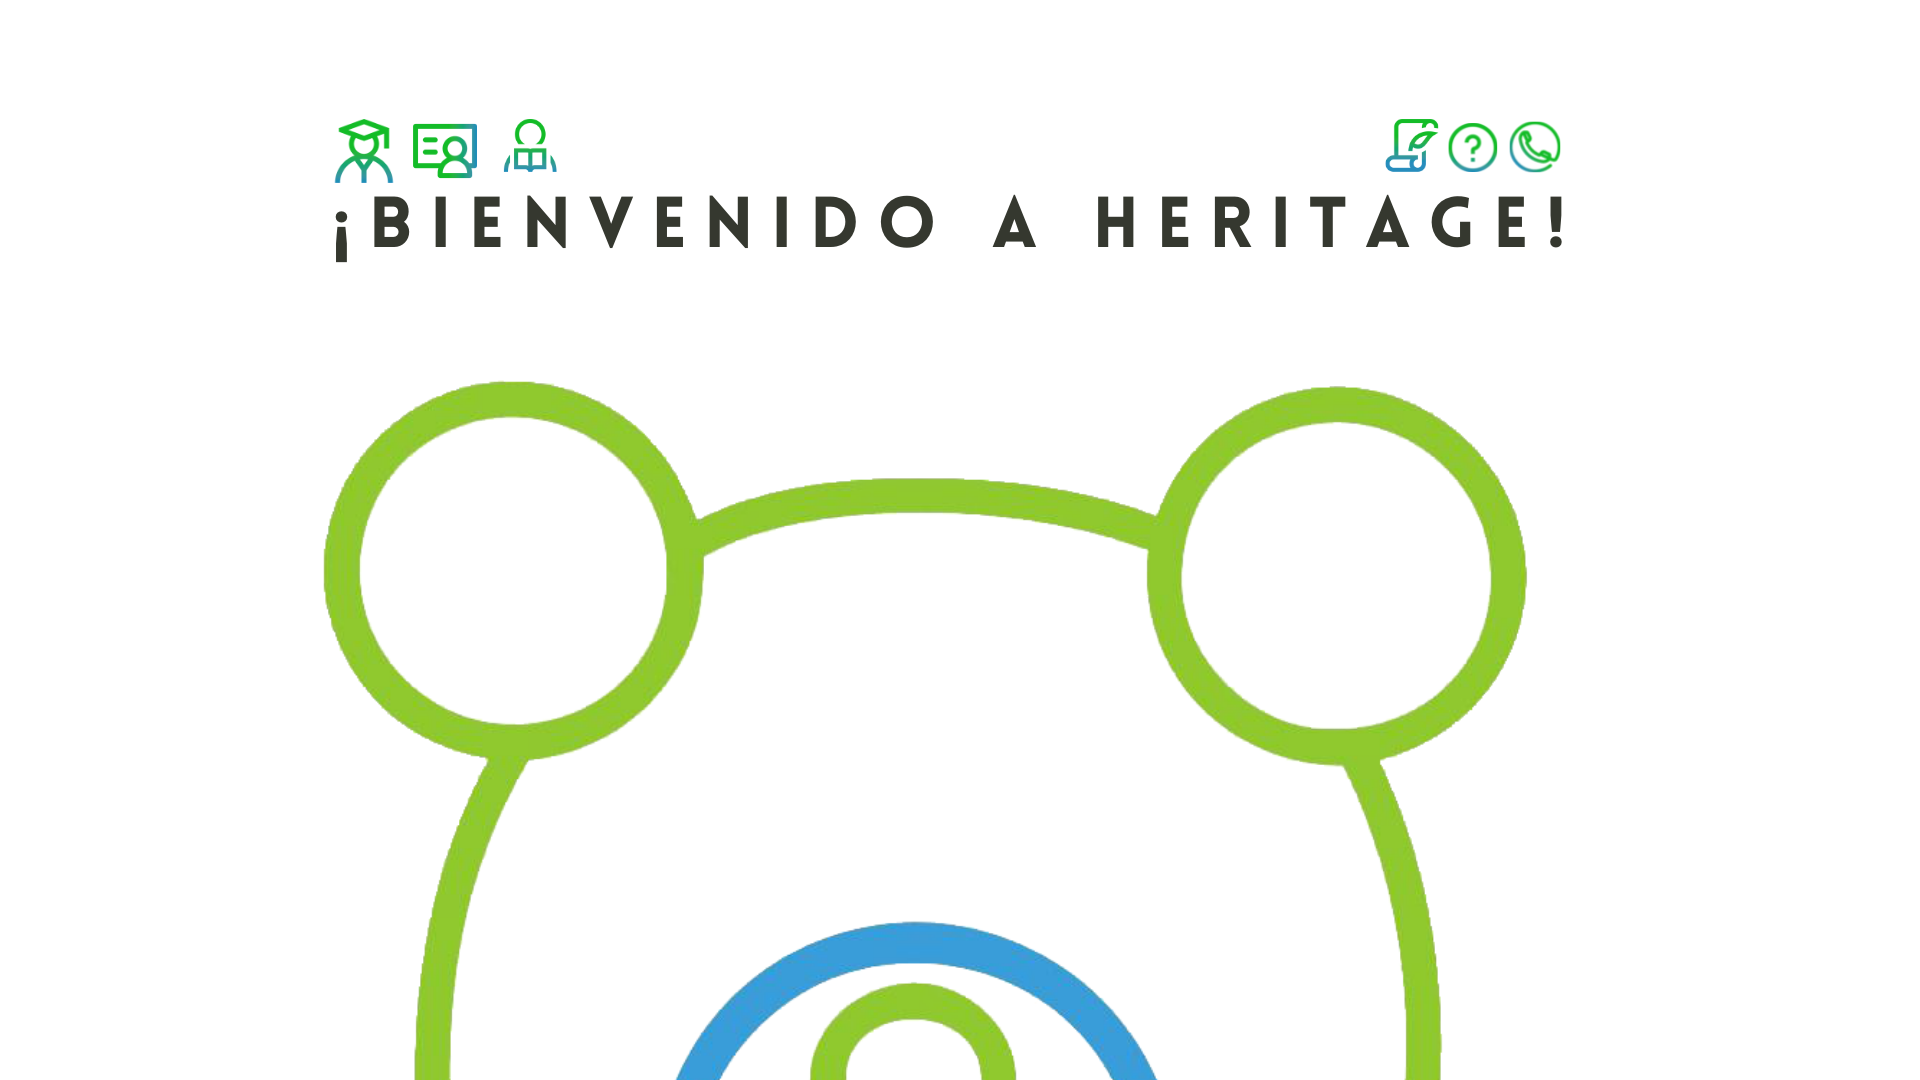
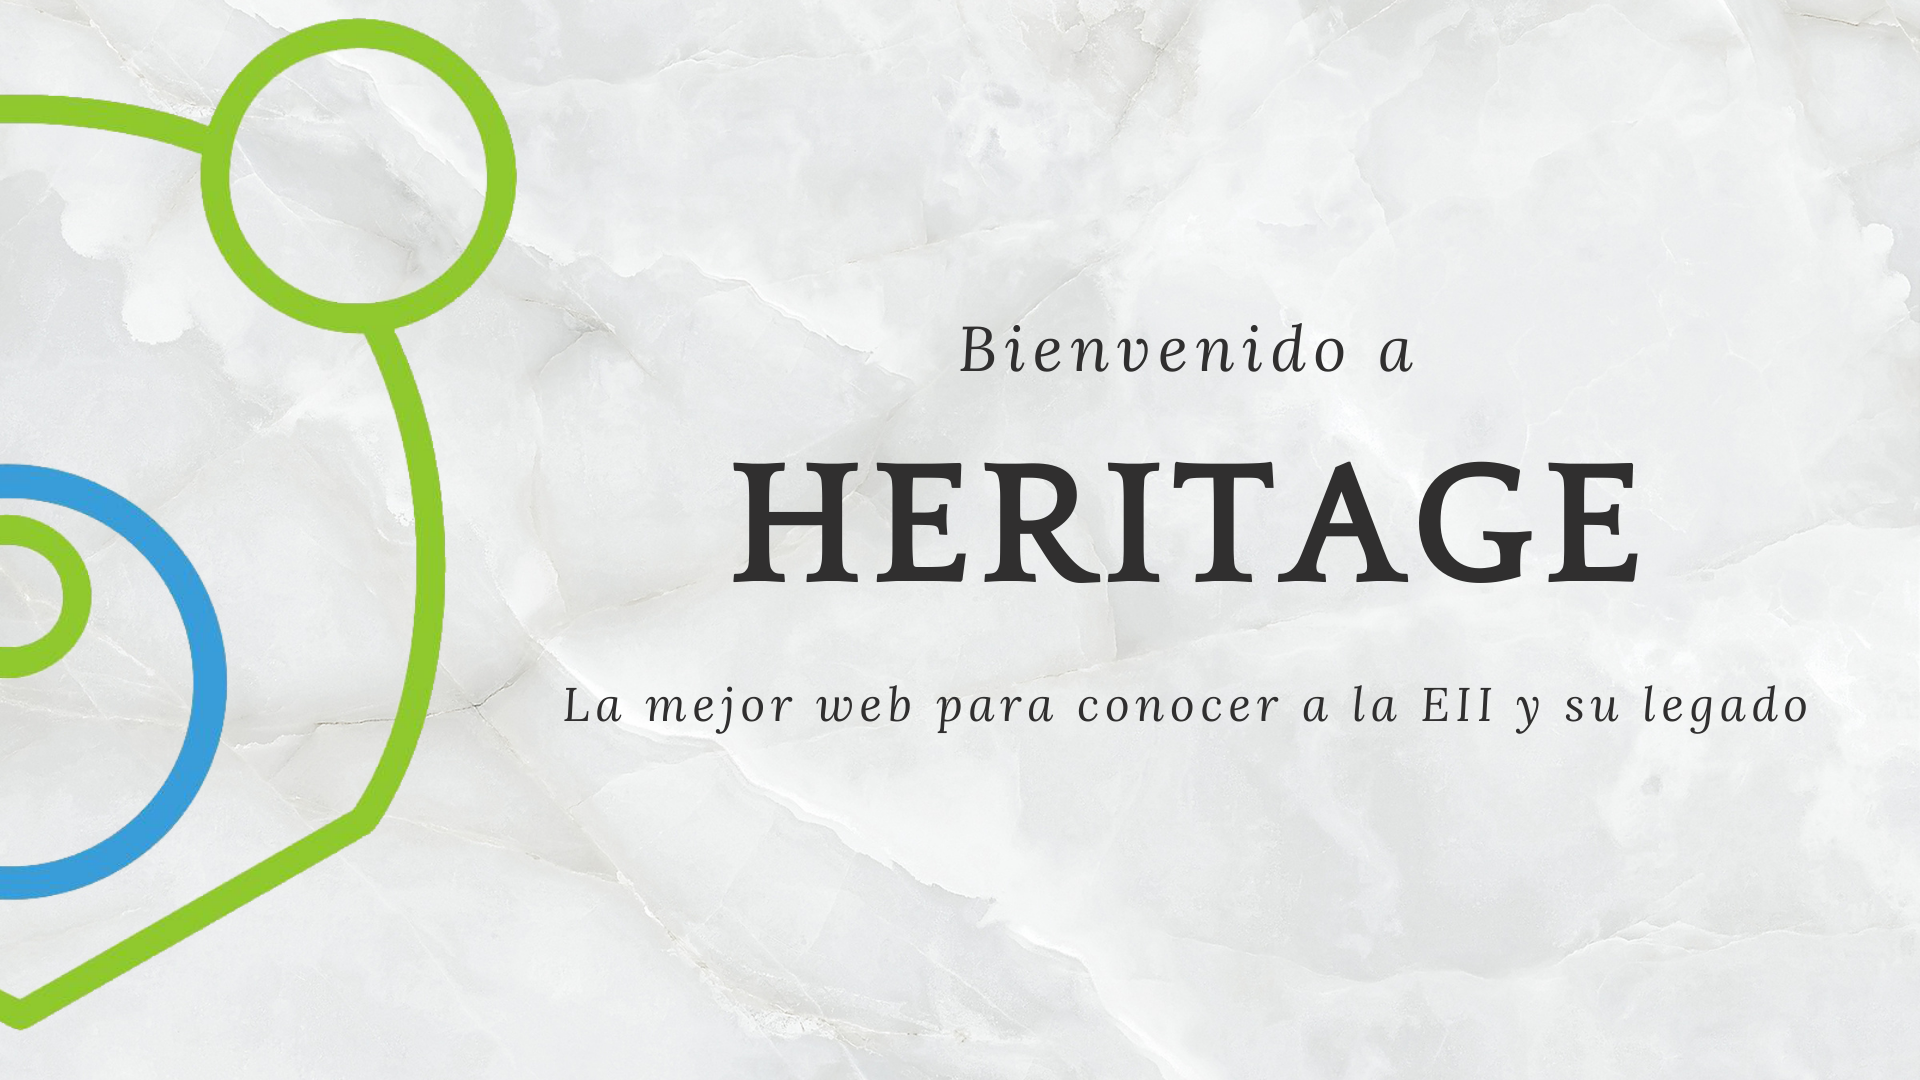
Now we see the entire slider when we enter the page

diff --git a/heritage/components/Slider/slider.module.scss b/heritage/components/Slider/slider.module.scss
@@ -4,12 +4,12 @@
 .embla {
     position: relative;
     background-color: #ffffff;
-    max-width: 80%;
+    max-width: 64%;
     height: 700px;
     margin-left: auto;
     margin-right: auto;
-    margin-bottom: -50px;
-    margin-top:1%;
+    margin-bottom: -120px;
+    margin-top:-4%;
   }
   .embla__viewport {
     overflow: hidden;
@@ -96,6 +96,52 @@
 
       .embla__button__svg {
         height: 120%;
+        margin-top: 120px;
+      }
+  }
+
+  
+  @include desktop{
+    .embla__slide__img {
+        top: 53%;
+        left: 50%;
+      }
+
+      .embla {
+        margin-bottom: -300px;
+        margin-top: 0px;
+      }
+
+      .embla__slide__inner {
+        height: 400px;
+      }
+
+      .embla__button__svg {
+        position: absolute;
+        height: 100%;
+        margin-top: -150px;
+        margin-left: -30px;
+      }
+  }
+
+  @include tablet{
+    .embla__slide__img {
+        top: 25%;
+        left: 50%;
+      }
+
+      .embla__slide__inner {
+        height: 700px;
+      }
+
+      .embla {
+        height: 450px;
+        margin-bottom: -100px;
+        margin-top: 15px;
+      }
+
+      .embla__button {
+          top:40%;
       }
   }
 
@@ -105,9 +151,14 @@
         left: 50%;
       }
 
-      .embla {
+      .embla__slide__inner {
         height: 500px;
+      }
+
+      .embla {
+        height: 350px;
         margin-bottom: -100px;
+        margin-top: 45px;
       }
 
       .embla__button {

diff --git a/heritage/components/SocialMedia/socialMedia.module.scss b/heritage/components/SocialMedia/socialMedia.module.scss
@@ -4,7 +4,7 @@
 .container{
     flex-basis: 100px;
     height: 100px;
-    margin-left: 300px;
+    margin-left: 380px;
     margin-bottom: 10px;
     margin-top: 10px;
 }
@@ -37,6 +37,13 @@
 @include mobile {
     .container{
         margin-left: 135px;
+    }
+}
+
+@include desktop {
+
+    .container{
+        margin-left: 250px;
     }
 }
 

diff --git a/heritage/pages/index.js b/heritage/pages/index.js
@@ -58,7 +58,6 @@ export default function Home() {
   }, []);
   return (
     <div>
-      <h1 className="title1">{f("paginaPrincipal")}</h1>
       <Slider></Slider>
       <h2 className="title1">{f("UltimasCartasSubidas")}</h2>
       <div className="cardfeed">

diff --git a/heritage/components/Header/header.module.scss b/heritage/components/Header/header.module.scss
@@ -3,6 +3,7 @@
 
 .header {
   display: flex;
+  margin-top: -2.5%;
   .logo {
     margin-top: -2%;
     margin-bottom: -5%;
